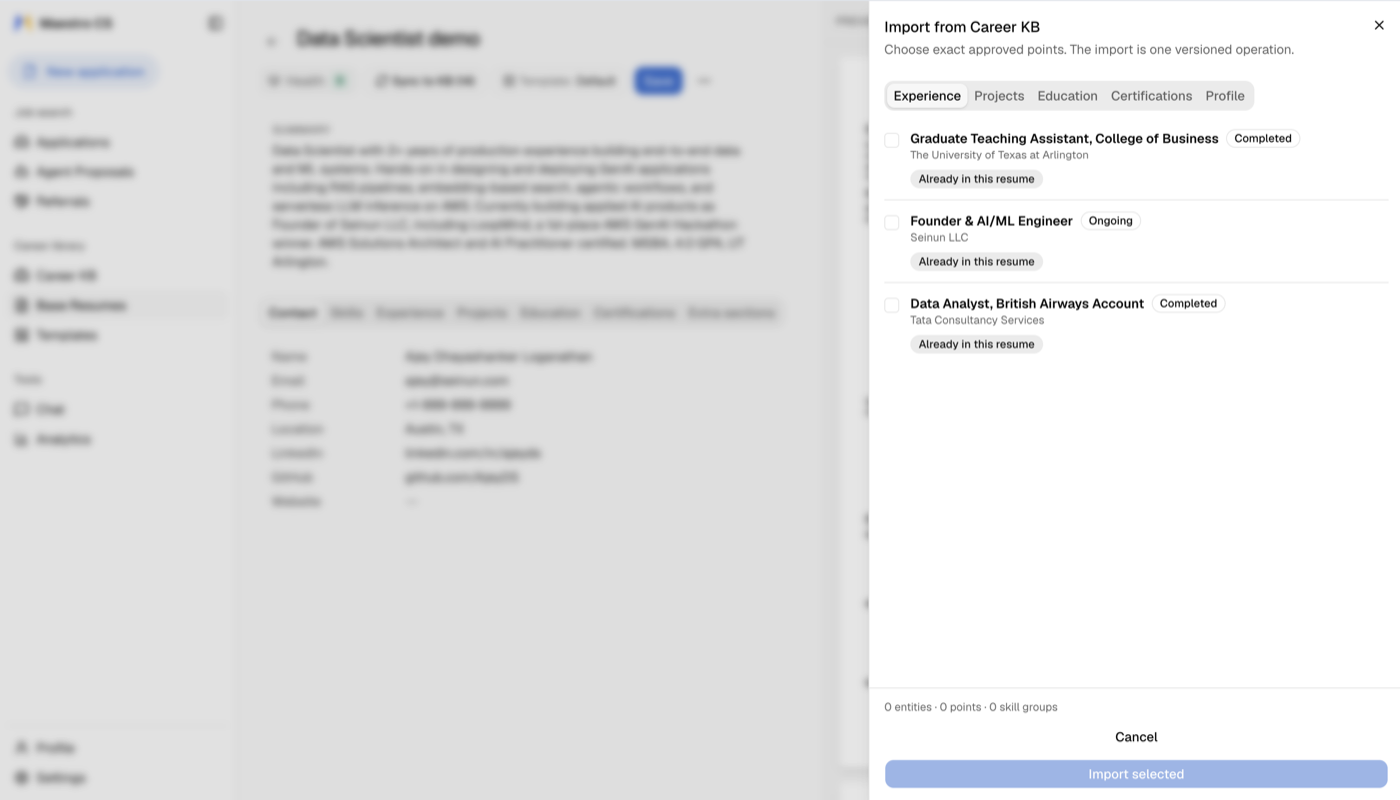
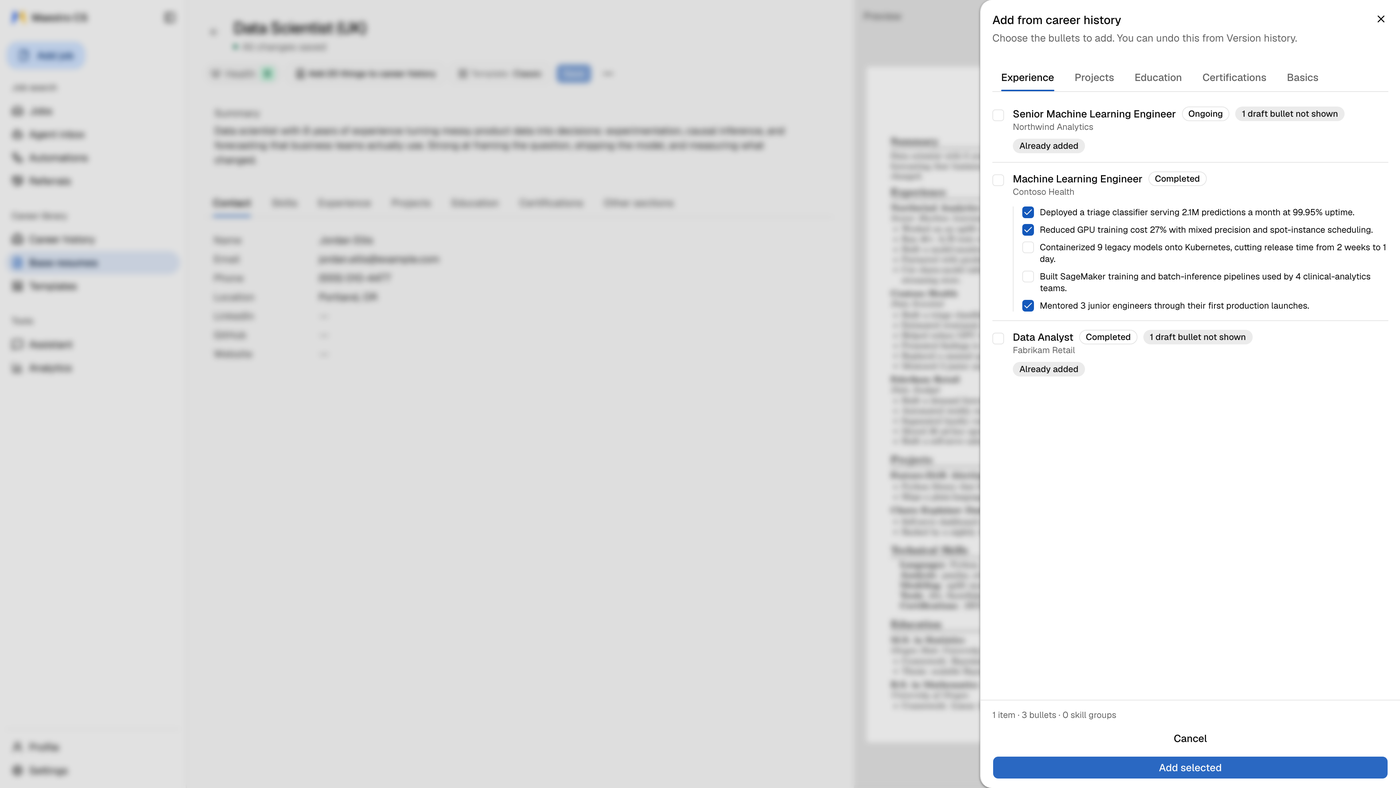
media: fresh v0.10.1 captures, and the new link-preview card
The feature cards and the Your AI section use new captures of the
fictional Jordan Ellis persona: three bases with their Target pills, a
job scored against two bases, a dense base resume with its Template
control, the Companion filling a form and stopping at Submit (with a still
for reduced motion), the health report and the Agent inbox. The diff card
keeps a stand-in until a review capture exists.

The social preview is the new site card; the stale SVG that still said
"Deterministic ATS scoring" is gone, and unused captures are removed.

diff --git a/content/site.ts b/content/site.ts
@@ -172,8 +172,8 @@ export const capabilities = {
       pill: "Targets",
       title: "A specialist resume for each track",
       body: "Keep one base resume per kind of role you go after. Give each a Target: the role, a company, the countries it may go to. A resume set for other countries isn't scored or recommended for a job somewhere else.",
-      image: "/media/base-resume.png",
-      imageAlt: "A base resume in the app with its health grade and a live typeset preview",
+      image: "/media/base-gallery.png",
+      imageAlt: "Three base resumes in the app, each with its Target pills: Data Scientist for GB, ML Engineer for the US, and ML Engineer for Woodgrove Bank",
       href: `${docs.using}#2-build-a-base-resume-per-career-track`,
     },
     {
@@ -182,8 +182,8 @@ export const capabilities = {
       pill: "Match score",
       title: "It asks instead of inventing",
       body: "The Match score shows what a job wants that your resume doesn't show yet. Maestro asks you about each gap. If it's true, it's saved for every future application. If it isn't, it stays a gap.",
-      image: "/media/job-overview.png",
-      imageAlt: "A saved job with its extracted fields and a check of the stated requirements against your profile",
+      image: "/media/job-score.png",
+      imageAlt: "A saved job scored against two base resumes, each with its Match score, five subscores, skills covered and an Analyze gaps button",
       href: `${docs.using}#3-save-the-job-then-close-the-gaps`,
     },
     {
@@ -194,7 +194,8 @@ export const capabilities = {
       body: "Every change arrives as a diff, line by line, the way a developer reviews a code change before accepting it. Accept it or undo it.",
       quote: "The AI fills in emphasis. It doesn't invent a new person.",
       image: "/media/kb-import.png",
-      imageAlt: "The resume editor adding bullets from your career history, with the drawer showing what is already present",
+      // TODO(capture): a tailored resume's review, each change with Undo.
+      imageAlt: "A base resume with the Add from career history drawer open, choosing which bullets to add",
       href: `${docs.using}#how-it-works`,
     },
     {
@@ -204,8 +205,8 @@ export const capabilities = {
       title: "How many resume templates have you changed in your life?",
       body: "One or two. Here it's a button. LaTeX and Typst PDFs are built on your computer, and Typst needs no TeX.",
       quote: "Template change is not a decision of life anymore.",
-      image: "/media/templates.png",
-      imageAlt: "The template gallery, with LaTeX and Typst designs built on your computer",
+      image: "/media/base-resume.png",
+      imageAlt: "A base resume in the app, with its Template control in the toolbar and the full one-page PDF preview beside the editor",
       href: `${docs.using}#templates-you-actually-own`,
     },
     {
@@ -215,7 +216,7 @@ export const capabilities = {
       title: "It fills the form. You press Submit.",
       body: "A Chrome side panel saves the job from the board you're on, picks your best-matching resume and fills the application from your saved answers. Then it stops.",
       image: "/media/extension.gif",
-      imageAlt: "The Companion panel on a job page, stepping through Job, Resume, Fill and Track",
+      imageAlt: "The Companion beside a job application: it saves the job, tailors the resume, fills the form and stops with the cursor resting on Submit",
       href: `${docs.using}#the-companion-browser-extension`,
     },
     {
@@ -225,7 +226,7 @@ export const capabilities = {
       title: "Know it's sound before you send it",
       body: "A health report grades one resume on its own: can application systems read it, are the dates right, is the evidence strong. A serious problem blocks tailoring, because tailoring can't fix a broken resume.",
       image: "/media/health-report.png",
-      imageAlt: "A resume health grade with the cost of each problem",
+      imageAlt: "A resume health report: grade B, 79 out of 100, six points to an A, and the findings to reword",
       href: `${docs.using}#health-report--is-this-resume-sound-at-all`,
     },
   ],
@@ -245,10 +246,8 @@ export const agentsTeaser = {
   automation:
     "Full automation is opt-in and off by default: when you turn it on, your own agent may submit the jobs you queued whose final review is clean, within your daily limit.",
   link: { label: "The MCP guide on GitHub", href: docs.mcpGuide },
-  // TODO(capture): connected-agents.png, then restore its alt text:
-  // "Settings › Connected agents in the app, with the Connect an agent app card".
-  image: "/media/applications.png",
-  imageAlt: "The Jobs page, from saved jobs through to offers",
+  image: "/media/agent-inbox.png",
+  imageAlt: "The Agent inbox: jobs that Claude and Codex found, each with its best base resume and Match score, waiting for you to review",
 } as const;
 
 /* ---------------------------- numbers ---------------------------- */

diff --git a/lib/media.ts b/lib/media.ts
@@ -1,26 +1,30 @@
 /** Intrinsic sizes of the shipped captures, so the layout reserves space and
  *  never shifts while a screenshot or video decodes. Keep every entry in step
- *  with a file in public/media/, and every file with a use on the site. */
+ *  with a file in public/media/, and every file with a use on the site.
+ *  The stills are v0.10.1 captures of the fictional Jordan Ellis persona
+ *  (maestro-marketing/site-media/MANIFEST.md says what each one shows). */
 export const mediaSize: Record<string, { width: number; height: number }> = {
   "/media/hero.mp4": { width: 1512, height: 850 },
-  // TODO(capture): the v0.10.1 recaptures in maestro-marketing/site-media/
-  // replace these five 2026-08 stills. Copy each in with its real size.
-  "/media/base-resume.png": { width: 1400, height: 800 },
-  "/media/job-overview.png": { width: 1400, height: 800 },
-  "/media/templates.png": { width: 1400, height: 767 },
-  "/media/health-report.png": { width: 1400, height: 767 },
-  "/media/extension.gif": { width: 1000, height: 548 },
-  // TODO(capture): stand-in for the diff card until a capture of a tailored
-  // resume's review (each change with Undo) lands.
-  "/media/kb-import.png": { width: 1400, height: 800 },
-  // TODO(capture): stand-in for the Your AI teaser until connected-agents.png
-  // (Settings › Connected agents) lands; then point agentsTeaser.image at it.
-  "/media/applications.png": { width: 1400, height: 766 },
+  "/media/base-gallery.png": { width: 1400, height: 788 },
+  "/media/job-score.png": { width: 1400, height: 788 },
+  "/media/base-resume.png": { width: 1400, height: 788 },
+  "/media/health-report.png": { width: 1400, height: 788 },
+  "/media/agent-inbox.png": { width: 1400, height: 788 },
+  "/media/extension.gif": { width: 1000, height: 562 },
+  "/media/companion.png": { width: 1400, height: 788 },
+  // TODO(capture): stand-in for the "Every AI edit is a diff" card until a
+  // capture of a tailored resume's review (each change with Undo) lands.
+  "/media/kb-import.png": { width: 1400, height: 788 },
 };
 
 /** Poster frames for video sources, keyed by the video path. */
 export const videoPoster: Record<string, string> = {
   "/media/hero.mp4": "/media/hero-poster.jpg",
+};
+
+/** A still for each animated GIF, shown instead when the reader prefers reduced motion. */
+export const gifStill: Record<string, string> = {
+  "/media/extension.gif": "/media/companion.png",
 };
 
 export const isVideo = (src: string) => src.endsWith(".mp4") || src.endsWith(".webm");

diff --git a/components/ShotFrame.tsx b/components/ShotFrame.tsx
@@ -4,7 +4,7 @@ import Stack from "@mui/material/Stack";
 import Typography from "@mui/material/Typography";
 import Image from "next/image";
 import LoopVideo from "./LoopVideo";
-import { isVideo, mediaSize } from "@/lib/media";
+import { gifStill, isVideo, mediaSize } from "@/lib/media";
 import { accent as accentOf, c, type Accent } from "@/lib/tokens";
 
 /**
@@ -49,6 +49,24 @@ export default function ShotFrame({
       >
         {isVideo(src) ? (
           <LoopVideo src={src} label={alt} width={dims.width} height={dims.height} priority={priority} />
+        ) : gifStill[src] ? (
+          // A GIF cannot be paused, so reduced motion gets its still instead.
+          <picture>
+            <source media="(prefers-reduced-motion: reduce)" srcSet={gifStill[src]} />
+            <img
+              src={src}
+              alt={alt}
+              width={dims.width}
+              height={dims.height}
+              loading={priority ? "eager" : "lazy"}
+              style={{
+                width: "100%",
+                height: "auto",
+                display: "block",
+                ...(aspect ? { aspectRatio: aspect, objectFit: "cover", objectPosition: "top" } : null),
+              }}
+            />
+          </picture>
         ) : (
           <Image
             src={src}
@@ -57,8 +75,6 @@ export default function ShotFrame({
             height={dims.height}
             sizes={sizes}
             loading={priority ? "eager" : "lazy"}
-            // GIFs are already-encoded captures; re-encoding drops the animation.
-            unoptimized={src.endsWith(".gif")}
             style={
               aspect
                 ? { width: "100%", height: "auto", aspectRatio: aspect, objectFit: "cover", objectPosition: "top", display: "block" }

diff --git a/README.md b/README.md
@@ -178,10 +178,13 @@ Both bit during the build and are easy to reintroduce:
 
 ## Captures
 
-The stills in `public/media/` are copied from the product repo's `docs/assets/`.
-They are real captures of the shipped app, already reviewed and cleared for
-publication there — re-copy them rather than re-recording, and keep `lib/media.ts`
-in step with any change in pixel dimensions.
+The stills and the Companion GIF in `public/media/` are v0.10.1 captures of the
+fictional persona "Jordan Ellis", made on a throwaway stack and kept in the
+private marketing repo (`site-media/`, whose `MANIFEST.md` says what each file
+shows and which numbers are on screen). Re-copy from there rather than
+re-recording, and keep `lib/media.ts` in step with any change in pixel
+dimensions. An animated GIF has a still in `gifStill` that readers who prefer
+reduced motion see instead (`extension.gif` falls back to `companion.png`).
 
 Each feature card crops its capture to 7:4 from the top, so cards side by side
 line up. `lib/media.ts` marks every capture still waiting on a v0.10.1 recapture
